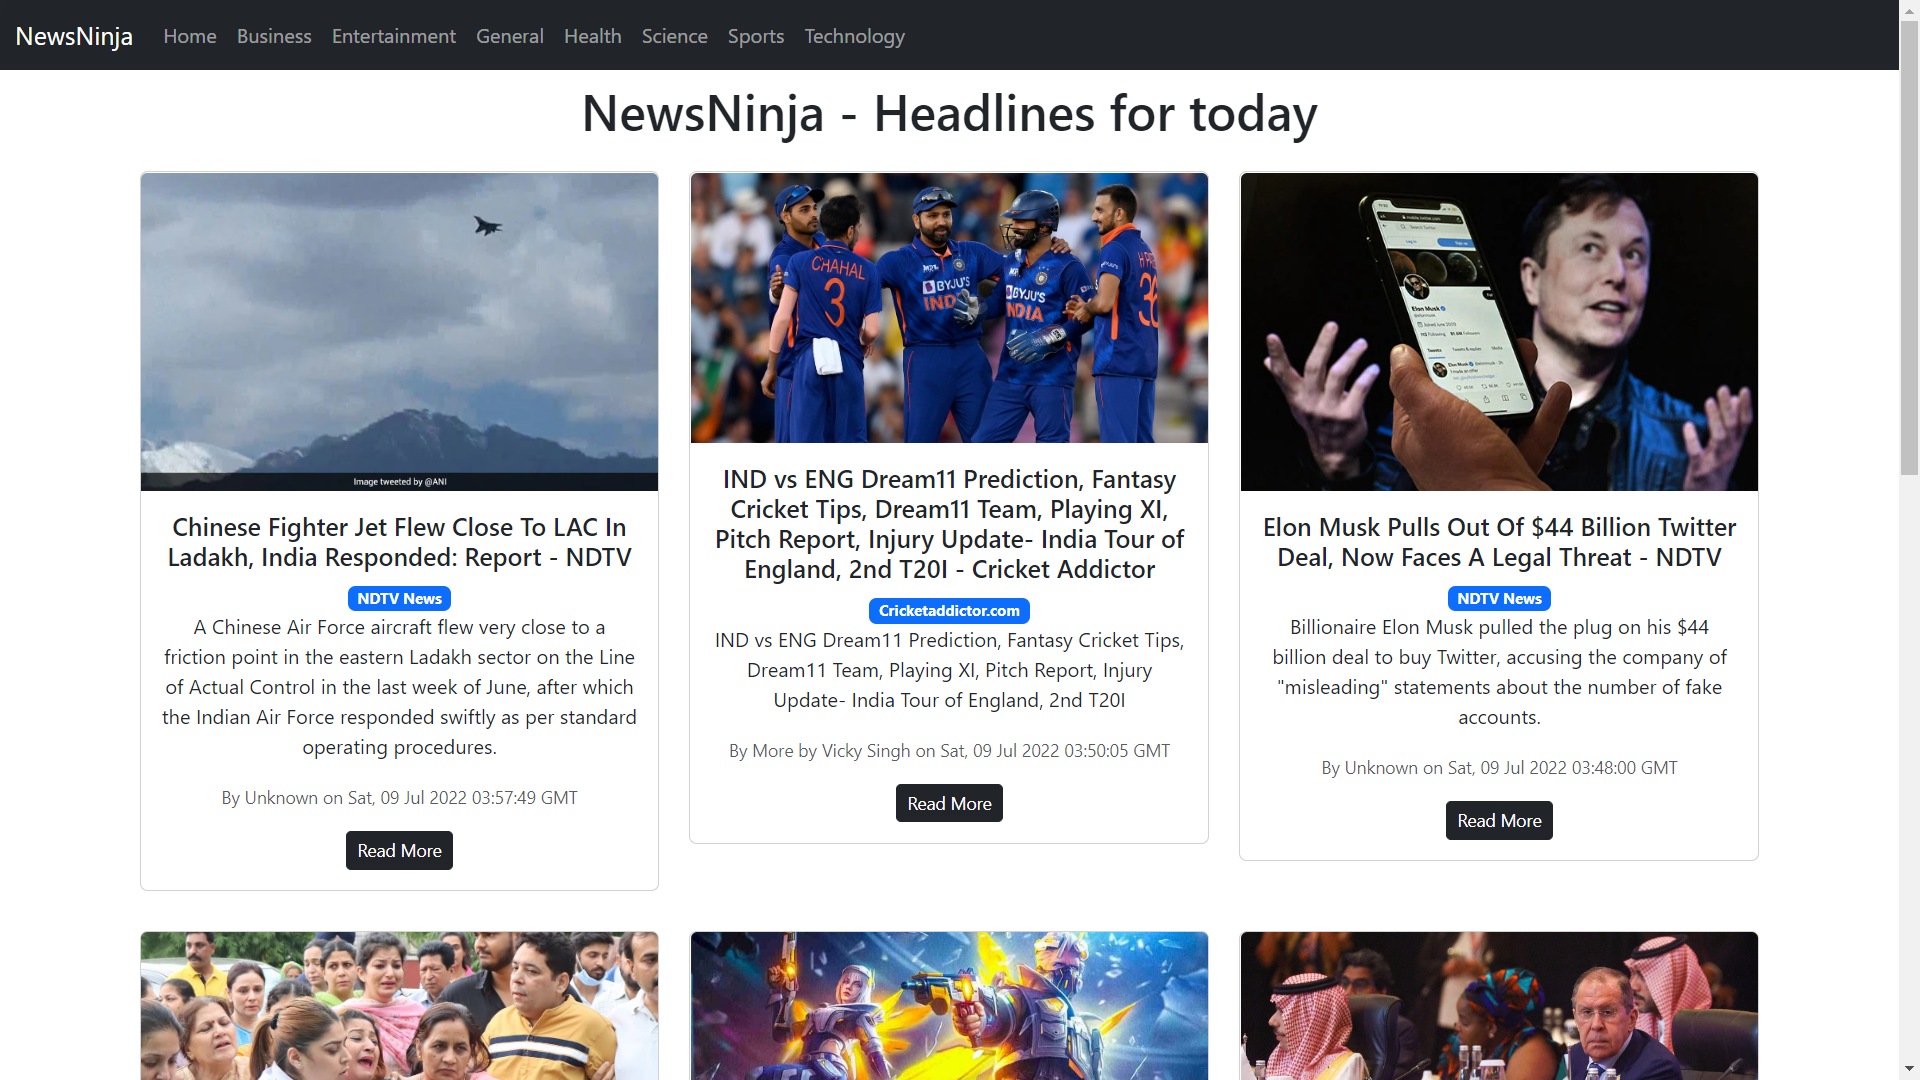
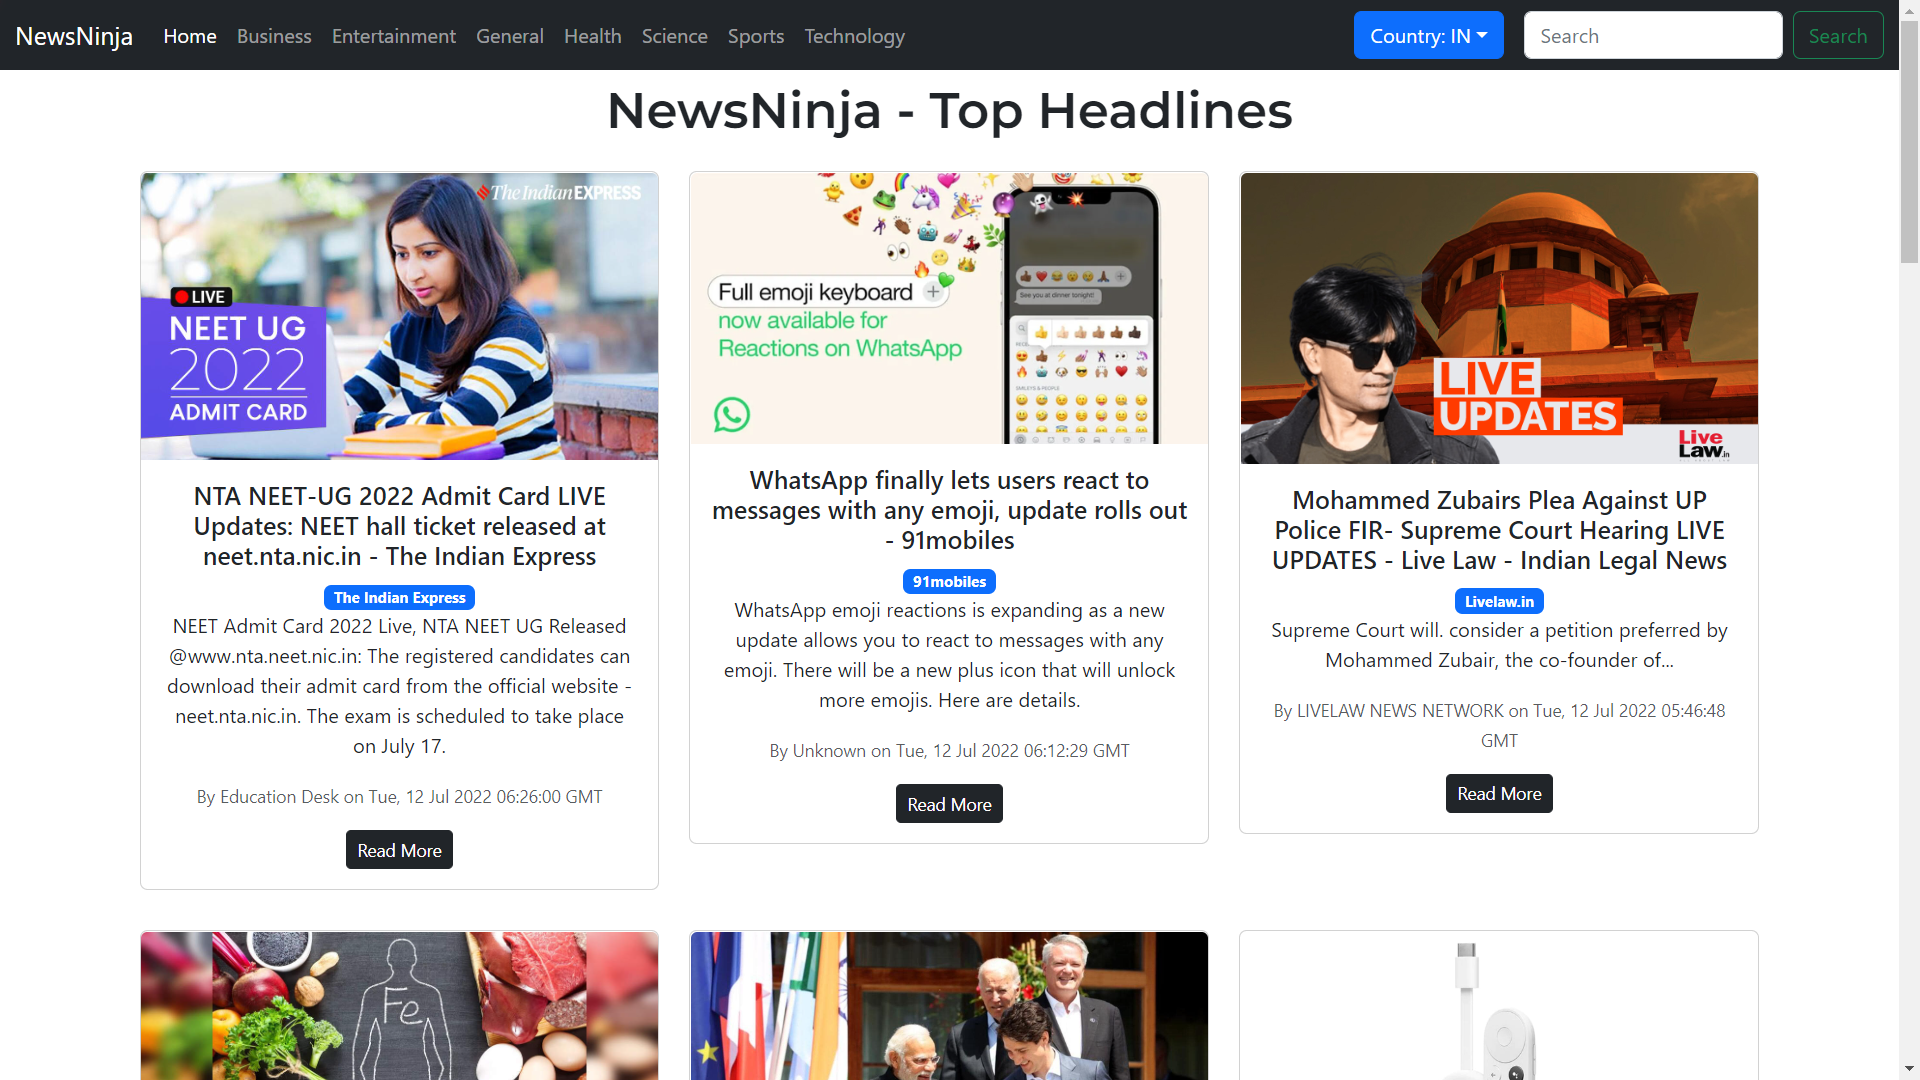
updated readme

diff --git a/README.md b/README.md
@@ -18,6 +18,13 @@ ___
 ![Home](./previews/home.png)
 ### Sports Category
 ![Sports](./previews/sports.png)
+![Sports2](./previews/sports2.png)
+### Country-wise News
+![Choice](./previews/choice.png)
+![US](./previews/us.png)
+### Search
+![Source](./previews/source.png)
+![Text](./previews/text.png)
 ### Loading spinner and Loading Bar
 ![Loading](./previews/loading.png)
 
